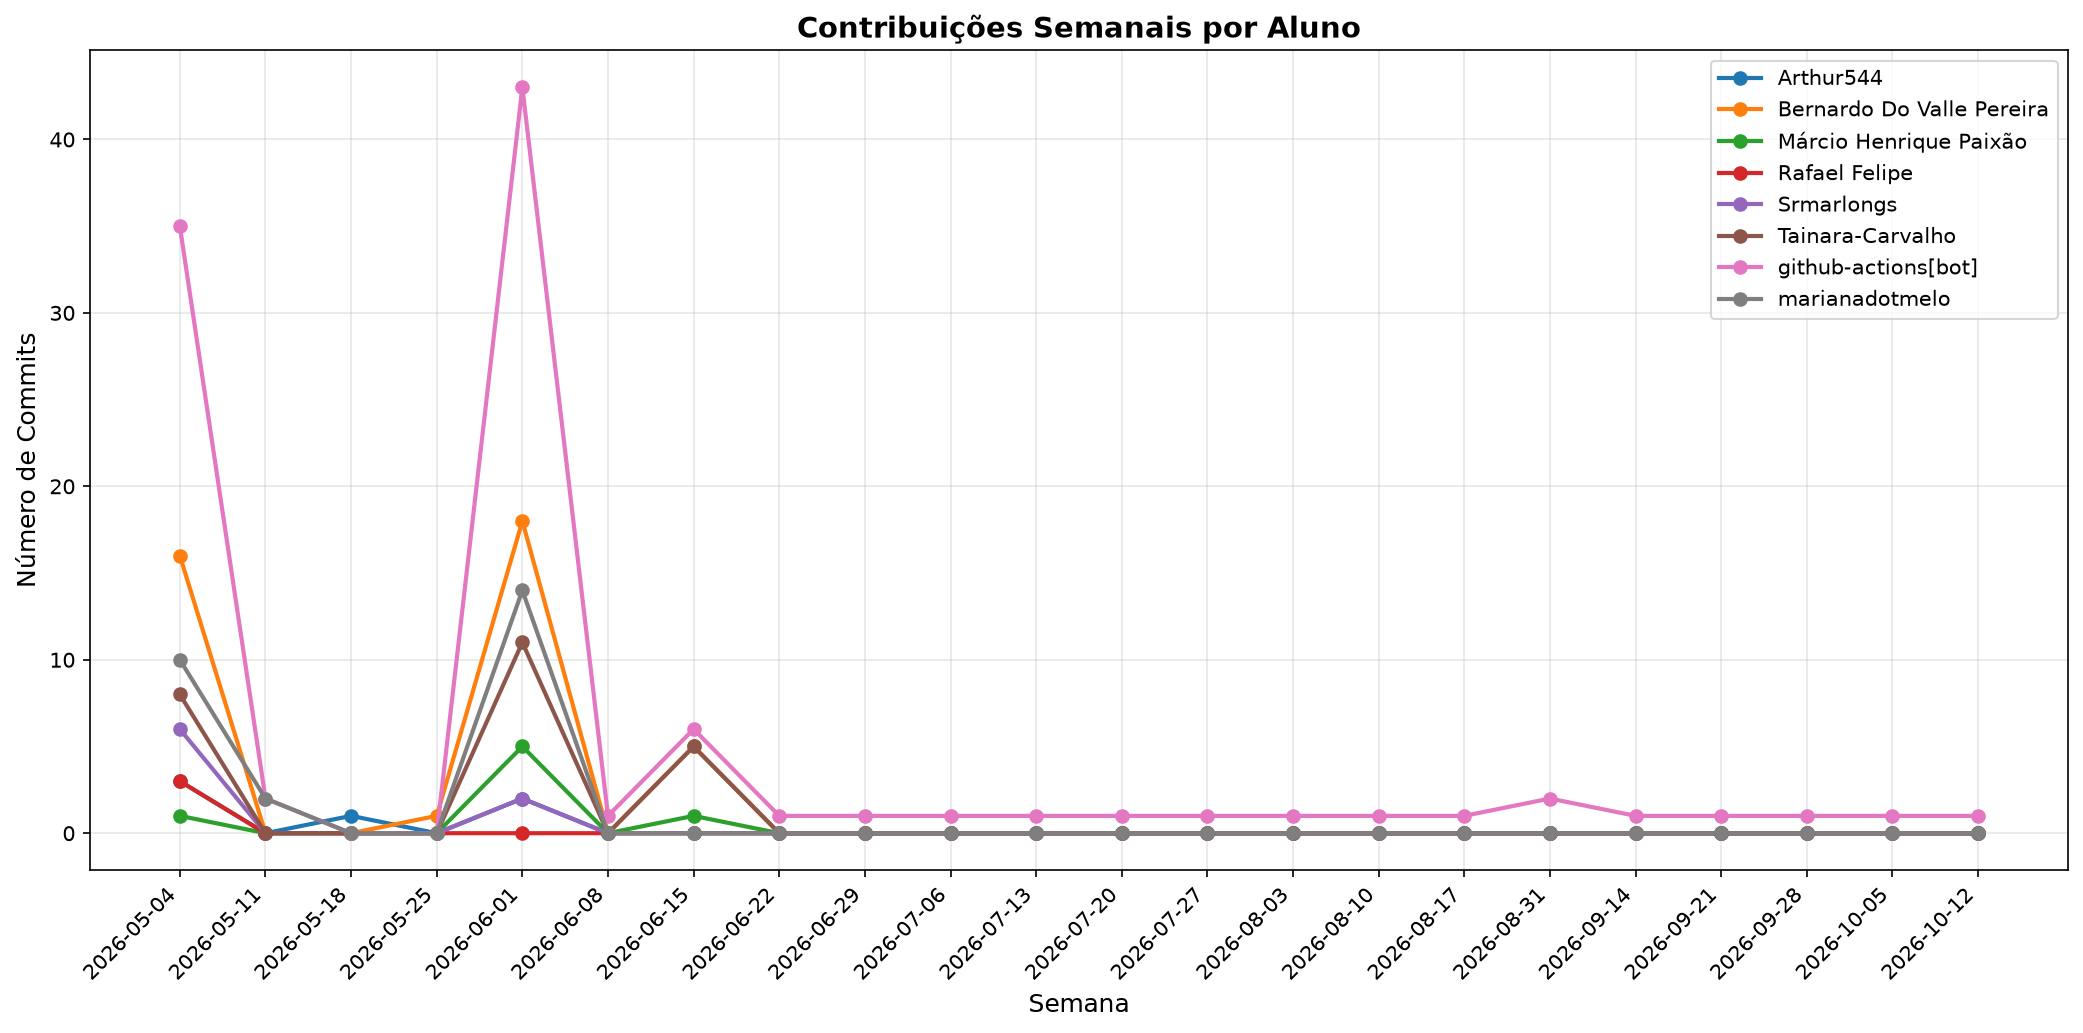
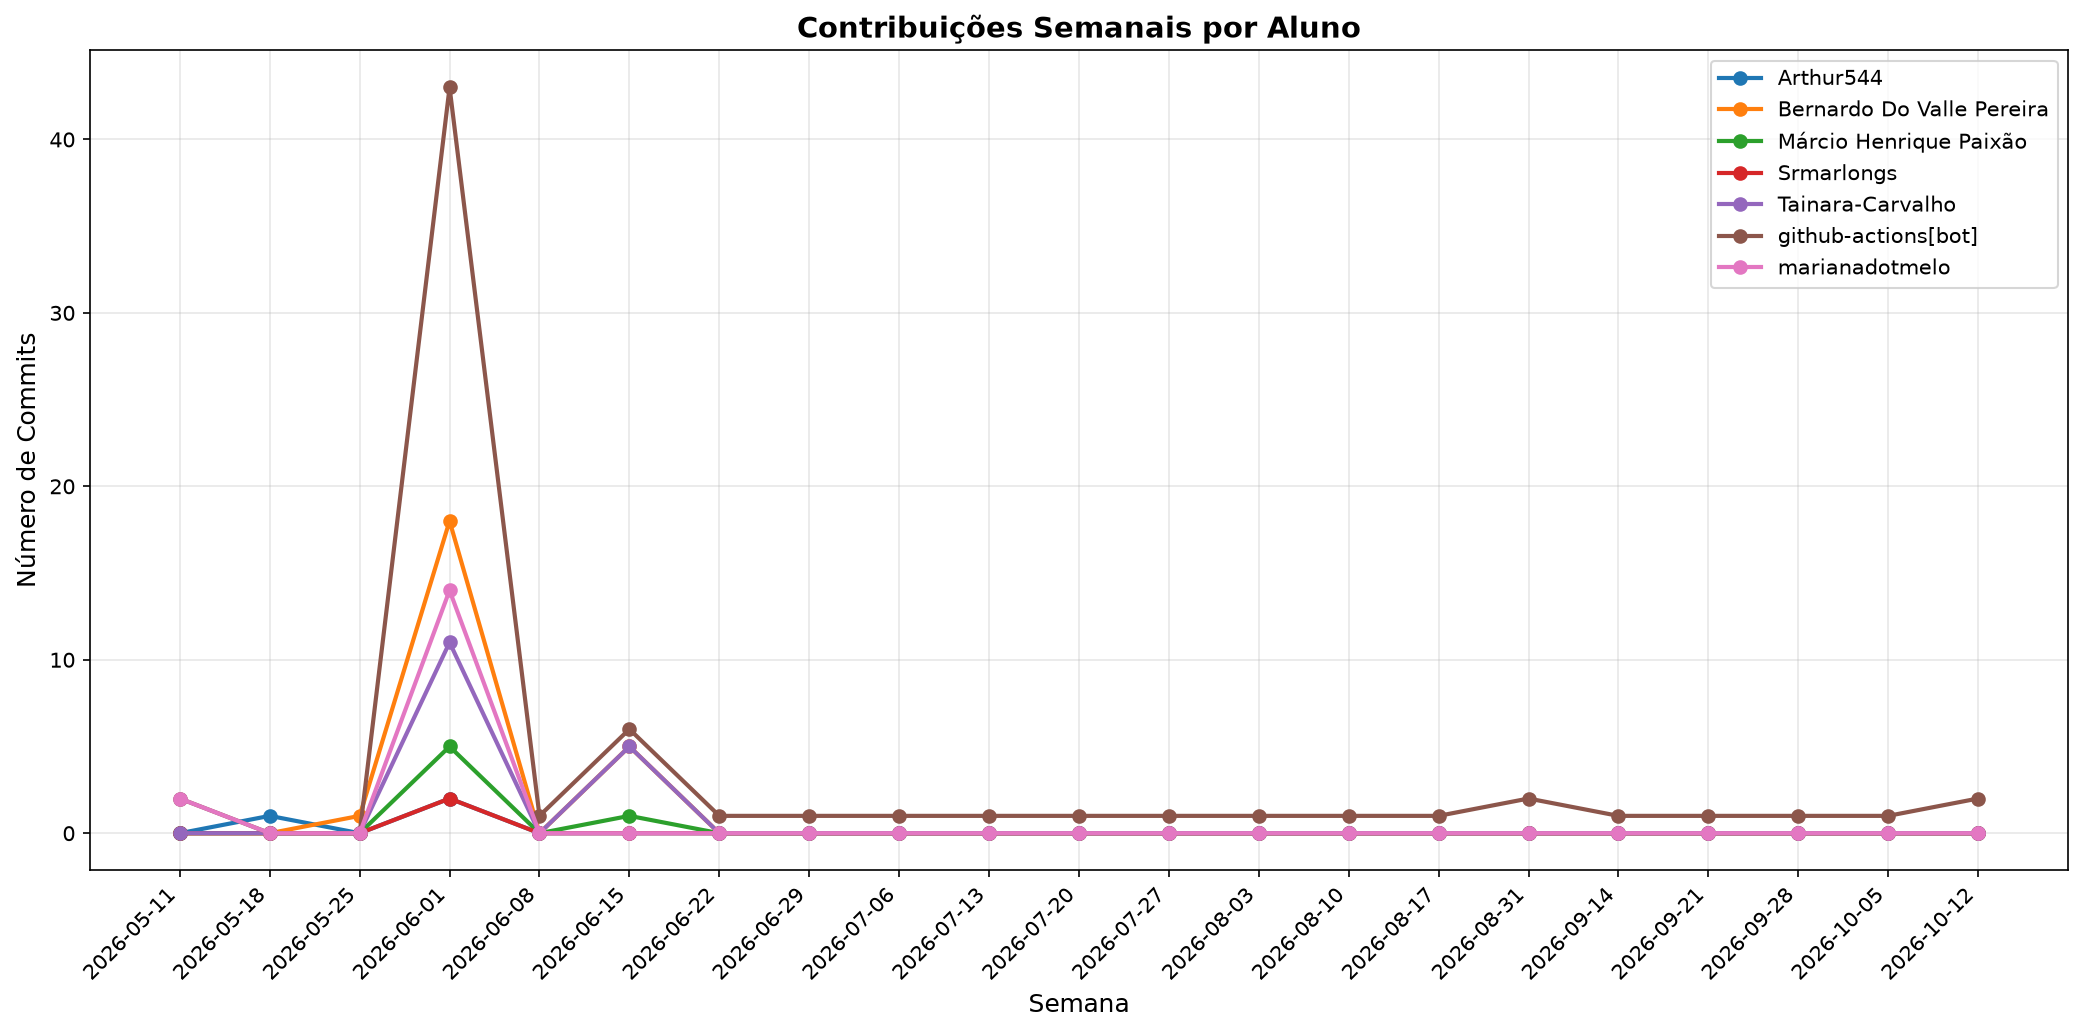
📊 Atualizar relatório de contribuições [skip ci]

diff --git a/documentos/CONTRIBUTION_REPORT.md b/documentos/CONTRIBUTION_REPORT.md
@@ -1,6 +1,6 @@
 # 📊 Relatório de Contribuições do Projeto
 
-**Última atualização:** 19/10/2026 04:19
+**Última atualização:** 26/10/2026 04:23
 
 ---
 
@@ -14,7 +14,7 @@
 | Rafael Felipe             |         4 |       249 |         2 |          4 |              2 |               1 |
 | Srmarlongs                |        14 |      1575 |        11 |         13 |             10 |               2 |
 | Tainara-Carvalho          |        35 |       825 |       278 |          9 |             31 |               2 |
-| github-actions[bot]       |       155 |       880 |       784 |          3 |            155 |               1 |
+| github-actions[bot]       |       156 |       887 |       793 |          3 |            156 |               1 |
 | github-classroom[bot]     |         1 |       774 |         0 |         19 |              1 |               3 |
 | marciohgpdev              |         1 |         5 |         5 |          1 |              1 |               1 |
 | marianadotmelo            |        35 |       835 |       446 |         14 |             20 |               3 |
@@ -22,7 +22,7 @@
 
 ## 📅 Contribuições Semanais (Todo o Semestre)
 
-**2026-10-12**: github-actions[bot]: 1
+**2026-10-12**: github-actions[bot]: 2
 
 **2026-10-05**: github-actions[bot]: 1
 
@@ -63,8 +63,6 @@
 **2026-05-18**: Arthur544: 1
 
 **2026-05-11**: github-actions[bot]: 2, marianadotmelo: 2
-
-**2026-05-04**: Arthur544: 3, Bernardo Do Valle Pereira: 16, Márcio Henrique Paixão: 1, Rafael Felipe: 3, Srmarlongs: 6, Tainara-Carvalho: 8, github-actions[bot]: 35, marianadotmelo: 10
 
 
 
